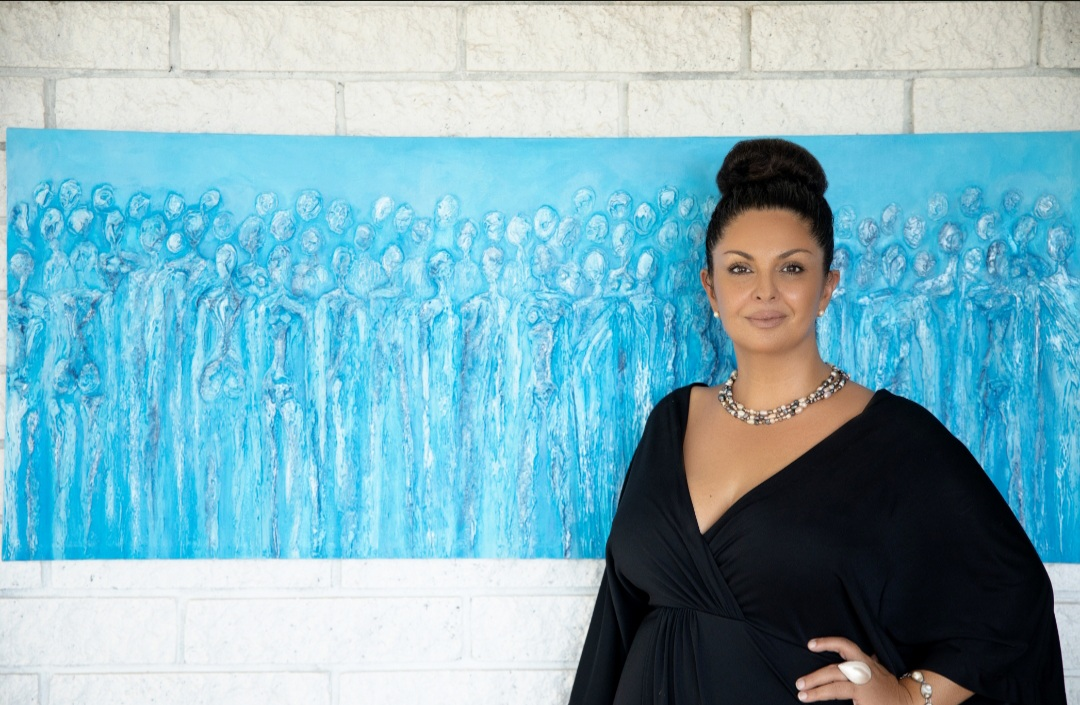
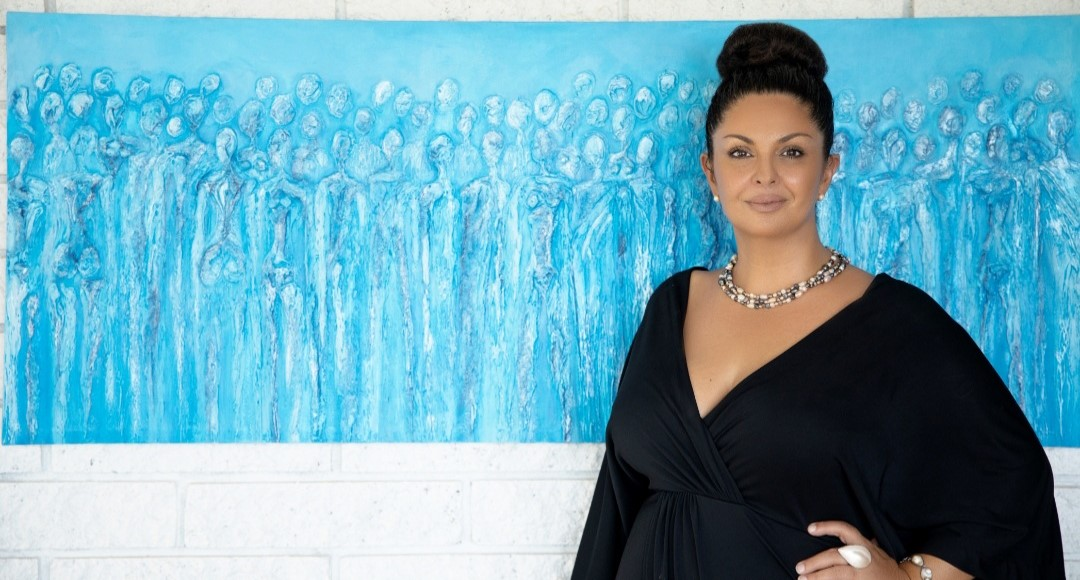
h

diff --git a/styles.css b/styles.css
@@ -1,8 +1,43 @@
 body {
     font-family: 'Arial', sans-serif;
-    background-color: #f4f4f4;
+    background-color: #C0C2C9; /* Slate */
     margin: 0;
     padding: 0;
+    color: #36454F; /* Charcoal for text */
+}
+
+/* Hide by default */
+.mobile-nav-content {
+    display: none;
+    flex-direction: column;
+    background-color: #C0C0C0; /* Silver */
+    border-radius: 8px;
+    box-shadow: 0 0 10px rgba(0, 0, 0, 0.15);
+    padding: 10px;
+    position: absolute;
+    top: 40px;
+    right: 10px;
+    z-index: 5;
+}
+
+#nav-toggle {
+    background-color: #C0C0C0; /* Silver */
+    color: #36454F; /* Charcoal for text */
+    border: none;
+    border-radius: 8px;
+    padding: 10px 15px;
+    cursor: pointer;
+}
+
+/* Mobile view media query */
+@media (min-width: 768px) {
+    .mobile-nav {
+        display: none;
+    }
+
+    .navigation {
+        display: block;
+    }
 }
 
 .container {
@@ -10,40 +45,99 @@ body {
     flex-direction: column;
     align-items: center;
     width: 100%;
-    position: relative;
 }
 
 .navigation {
     position: absolute;
-    top: 10px;
+    top: 70px;
     right: 10px;
+    background-color: #C0C0C0; /* Silver for the box background */
+    border-radius: 8px; /* Rounded corners for the box */
+    padding: 10px; /* Padding to give space inside the box */
+    box-shadow: 0 0 10px rgba(0, 0, 0, 0.15); /* A subtle shadow for depth */
 }
 
 .navigation a {
-    color: #333;
+    display: inline-block;
+    color: #36454F; /* Charcoal for links */
     text-decoration: none;
     padding: 5px 15px;
-    margin: 0 5px;
+    margin: 5px;
     border-radius: 5px;
     transition: background-color 0.3s;
 }
 
 .navigation a:hover {
-    background-color: #ddd;
+    background-color: #808080; /* Gray for hover effects */
+    color: #C0C2C9; /* Slate for hover text */
 }
 
 .raised-title {
     font-size: 2.5em;
-    background-color: #ffffff;
     padding: 10px 30px;
     border-radius: 8px;
-    box-shadow: 3px 3px 10px rgba(0, 0, 0, 0.1);
-    margin-bottom: 20px;
+    box-shadow: 3px 3px 10px rgba(54, 69, 79, 0.1); /* Charcoal for shadows */
+    margin-bottom: 40px;
+    color: #C0C0C0; /* Silver for title text */
 }
 
 .artist-image {
-    max-width: 100%;
+    width: 100%;
     height: auto;
+	max-width: 100%;
+	display: block;
     border-radius: 8px;
-    box-shadow: 2px 2px 10px rgba(0, 0, 0, 0.1);
+    box-shadow: 2px 2px 10px rgba(54, 69, 79, 0.1); /* Charcoal for shadows */
+    margin: 40px 0;
+	
+}
+
+.dropdown {
+    
+    display: inline-block;
+    width: 100%;  /* Ensures the dropdown takes full width */
+}
+
+.dropdown-content {
+    display: none;
+    position: absolute;
+    background-color: #E9EAEC; /* Pewter */
+    box-shadow: 0 8px 16px 0 rgba(0, 0, 0, 0.2);
+    z-index: 2;
+    border-radius: 8px;
+    padding: 15px;
+    width: 90%; /* Adjusted to 90% of the container width */
+    left: 5%;  /* Centering it with respect to the container */
+    font-size: 1.5em;
+    top: 100%; /* Ensure it displays below the image/button */
+}
+
+.dropdown-btn {
+    position: absolute;
+    top: 50%;  /* This, combined with 'transform', will center the button vertically */
+    left: 50%; /* This, combined with 'transform', will center the button horizontally */
+    transform: translate(-50%, -50%); /* This ensures that the button is truly centered, based on its own width and height */
+    
+    background-color: transparent; /* Transparent background */
+    color: #36454F; /* Charcoal for text */
+    border: 3px solid #36454F; /* Medium-thickness Charcoal border */
+    cursor: pointer;
+    border-radius: 8px;
+    padding: 10px 16px;
+    font-size: 1.5em;
+    font-weight: bold; /* Bold text */
+    opacity: 0.9;
+    z-index: 5; /* Z-index should be higher than the image's so the button appears on top */
+    width: auto; /* Remove the full viewport width */
+    transition: 0.3s; /* For smooth hover effect */
+}
+
+
+.image-container {
+    position: relative;
+    width: 100%; /* Take full width of its container */
+	display: block;
+	margin: 0 auto;
+	z-index: 1;
+	
 }

diff --git a/index.html b/index.html
@@ -10,24 +10,59 @@
 
 <body>
     <div class="container">
-        <h1 class="raised-title">Salomie Lawrence</h1>
+        <h1>Salomie Lawrence</h1>
         
-        <!-- Navigation Bar -->
+        <!-- Mobile Navigation Bar -->
+        <div class="mobile-nav">
+            <button id="nav-toggle" onclick="toggleNav()">Menu</button>
+            <div class="mobile-nav-content">
+                <a href="sold-art.html">Sold Art</a>
+                <a href="for-sale.html">For Sale</a>
+                <a href="blog/index.html">Blog</a>
+            </div>
+        </div>
+
+        <!-- Desktop Navigation Bar -->
         <div class="navigation">
             <a href="sold-art.html">Sold Art</a>
             <a href="for-sale.html">For Sale</a>
             <a href="blog/index.html">Blog</a>
         </div>
         
-        <img src="images/salomeportrait.jpg" alt="Your Portrait" class="artist-image">
-        
-        <!-- Description Textbox -->
-        <div class="description">
-            Hello im salomie, this is my site, the best artist in the whole wide carribean!
-        </div>
-        
+          <div class="image-container">
+            <img src="images/salomeportrait.jpg" alt="Your Portrait" class="artist-image">
+            <!-- Dropdown Menu -->
+            <div class="dropdown">
+                <button class="dropdown-btn" onclick="toggleDropdown()">About Salomie</button>
+                <div class="dropdown-content" id="about-salomie-content">
+        <p>Salomie Lawrence is a self-taught, award-winning artist who lives and works in Grenada, where
+she uses her work to ignite positive change on issues ranging from social injustice, generational
+trauma, and the environment.</p>
+
+<p>Drawing inspiration from the ethereal concept of ancestry and the rich tapestry of cultural
+narratives that shape our collective human history Salomie Lawrence creates emotionally
+evocative compositions that transcend traditional boundaries to invite the viewer on a journey
+of exploration. Salomie is best known for her low relief mixed media paintings and mosaic work
+which often uses found objects and recycled tesserae. As an emerging artist she continues to
+push the boundaries of her practice exploring new ideas, techniques, and materials to further
+enrich her artistic language.</p>
+
+<p>Lawrence has exhibited internationally and most notably in the Grenada Pavilion at The World
+Expo-Dubai 2020 and at the 5 th &amp; 6 th Grenada Contemporary-Arthouse473, Grenada (2019 &amp;
+2022) and more recently at Unleash Grenada, 2023 where her work was noted for its
+craftsmanship and evocative storytelling. Her ability to evoke emotion and engage viewers in a
+dialogue about identity and heritage has garnered a following.</p>
+
+<p>She actively engages in community programs and workshops with aspiring artists and
+enthusiasts and her desire to foster a deeper appreciation for the arts is reflected in her
+commitment to education and mentorship. Salome’s work and innovative approach has
+captured attention and earned her the Emerging Artist Award 2018- Grenada Arts Council and
+Artists Choice Award 2019- Grenada Arts Council.</p>
        
+        </div>
     </div>
+</div>
+        
 
     <script>
         let lastScrollTop = 0;
@@ -44,6 +79,20 @@
             lastScrollTop = currentScroll;
         }, false);
     </script>
+	
+	<script>
+    function toggleDropdown() {
+    var dropdownContent = document.querySelector('#about-salomie-content');
+    
+    if (dropdownContent.style.display === 'block') {
+        dropdownContent.style.display = 'none';
+    } else {
+        dropdownContent.style.display = 'block';
+        dropdownContent.scrollIntoView({ behavior: 'smooth', block: 'start' });
+    }
+}
+</script>
+
 </body>
 
 </html>
